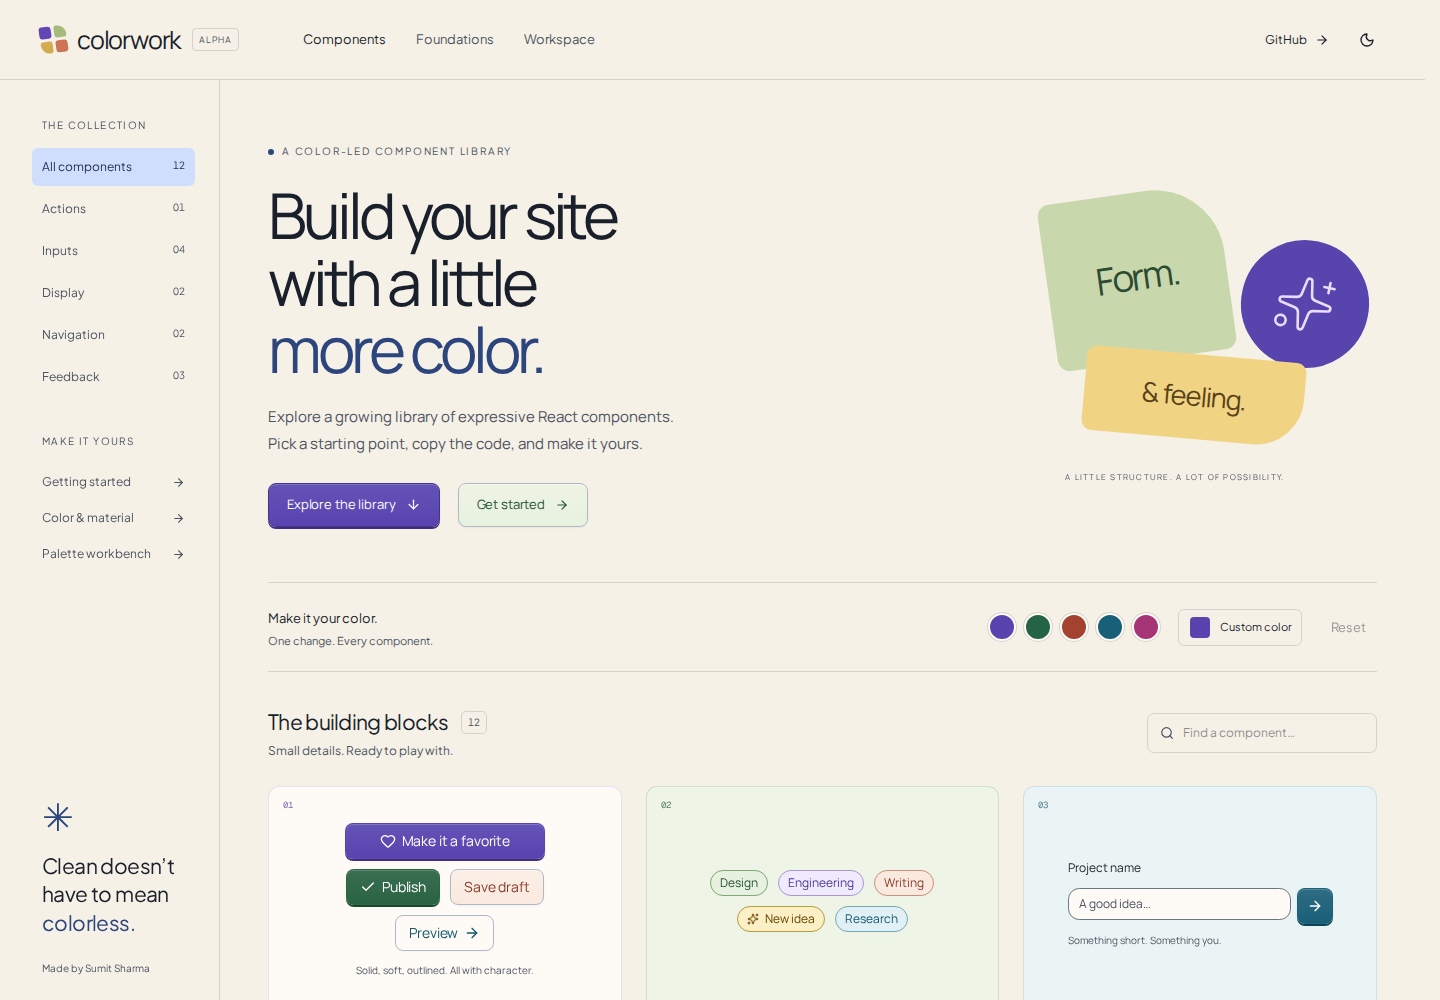
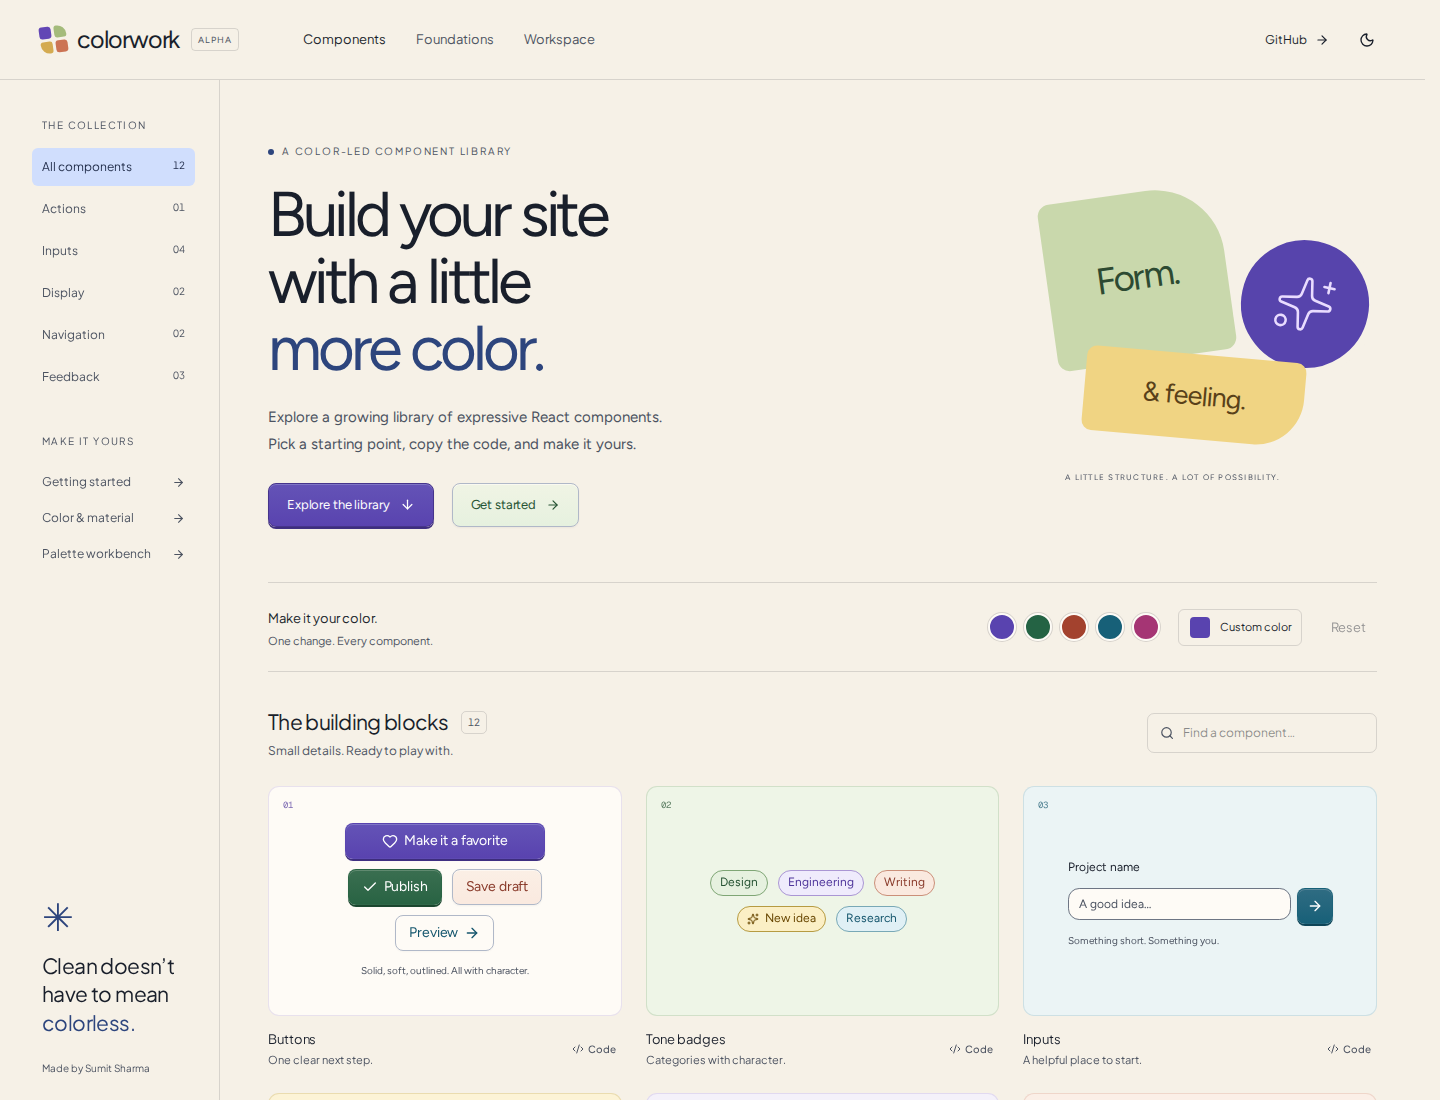
Use Figtree Regular as the main typeface

diff --git a/src/colorwork.css b/src/colorwork.css
@@ -2,8 +2,8 @@
    Legacy glass hooks are retained for component compatibility. */
 @import "./solid-glass.css";
 @theme inline {
-  --font-sans: "Manrope Variable", ui-sans-serif, system-ui, sans-serif;
-  --font-heading: "Manrope Variable", ui-sans-serif, system-ui, sans-serif;
+  --font-sans: "Figtree Variable", ui-sans-serif, system-ui, sans-serif;
+  --font-heading: "Figtree Variable", ui-sans-serif, system-ui, sans-serif;
 }
 :root { --font-secondary: "Plus Jakarta Sans Variable", ui-sans-serif, system-ui, sans-serif; }
 

diff --git a/src/index.css b/src/index.css
@@ -1,7 +1,7 @@
 @import "tailwindcss";
 @import "tw-animate-css";
 @import "shadcn/tailwind.css";
-@import "@fontsource-variable/manrope";
+@import "@fontsource-variable/figtree";
 @import "@fontsource-variable/plus-jakarta-sans";
 @import "@fontsource-variable/geist-mono";
 @import "@fontsource/marcellus-sc/latin-400.css";

diff --git a/docs/colorwork-verification.md b/docs/colorwork-verification.md
@@ -39,6 +39,6 @@ Demos keep state in memory and make no backend calls. Color scoping does not aut
 
 Kumo official button documentation/source informed the emphasis finish (tonal fill, edge, restrained highlight, pressed response); Kumo's runtime package and skill were not installed in this environment. The implementation retains Base UI and adds an explicit tone prop. Reference: https://github.com/cloudflare/kumo/blob/main/packages/kumo/src/components/button/button.tsx
 
-Global presets/custom color affect component tones and primary controls, with reset and local persistence. Success remains a separate semantic color. Custom solid-label contrast chooses black or white; arbitrary custom palettes still need contextual review. Manrope is the main face; Plus Jakarta Sans supports navigation and labels. Both use Regular 400.
+Global presets/custom color affect component tones and primary controls, with reset and local persistence. Success remains a separate semantic color. Custom solid-label contrast chooses black or white; arbitrary custom palettes still need contextual review. Figtree is the main face; Plus Jakarta Sans supports navigation and labels. Both use Regular 400.
 
-Global preset selection, arbitrary hex input, black/white label choice, reset and reload persistence passed browser checks. Manrope/Plus Jakarta font-family checks passed. Regular 400 was inspected in the rendered page. Button gradient contrast is checked against its lighter hover endpoint; arbitrary user-selected gradients are not covered by the original palette sample.
+Global preset selection, arbitrary hex input, black/white label choice, reset and reload persistence passed browser checks. Figtree/Plus Jakarta font-family checks passed. Regular 400 was inspected in the rendered page. Button gradient contrast is checked against its lighter hover endpoint; arbitrary user-selected gradients are not covered by the original palette sample.

diff --git a/README.md b/README.md
@@ -33,7 +33,7 @@ Stop dev before preview; both use port 5191. Build output is `dist/`. Use a stat
 
 ## Reuse
 
-Copy `src/colorwork.css` and `src/solid-glass.css` together; import colorwork.css after your Tailwind/shadcn styles. The source uses React 19, Tailwind 4, Base UI with Manrope and Plus Jakarta Sans. Copy TSX plus helpers/dependencies when using the new ToneBadge and ColorSurface components.
+Copy `src/colorwork.css` and `src/solid-glass.css` together; import colorwork.css after your Tailwind/shadcn styles. The source uses React 19, Tailwind 4, Base UI with Figtree and Plus Jakarta Sans. Copy TSX plus helpers/dependencies when using the new ToneBadge and ColorSurface components.
 
 Current branch registry (until merged):
 
